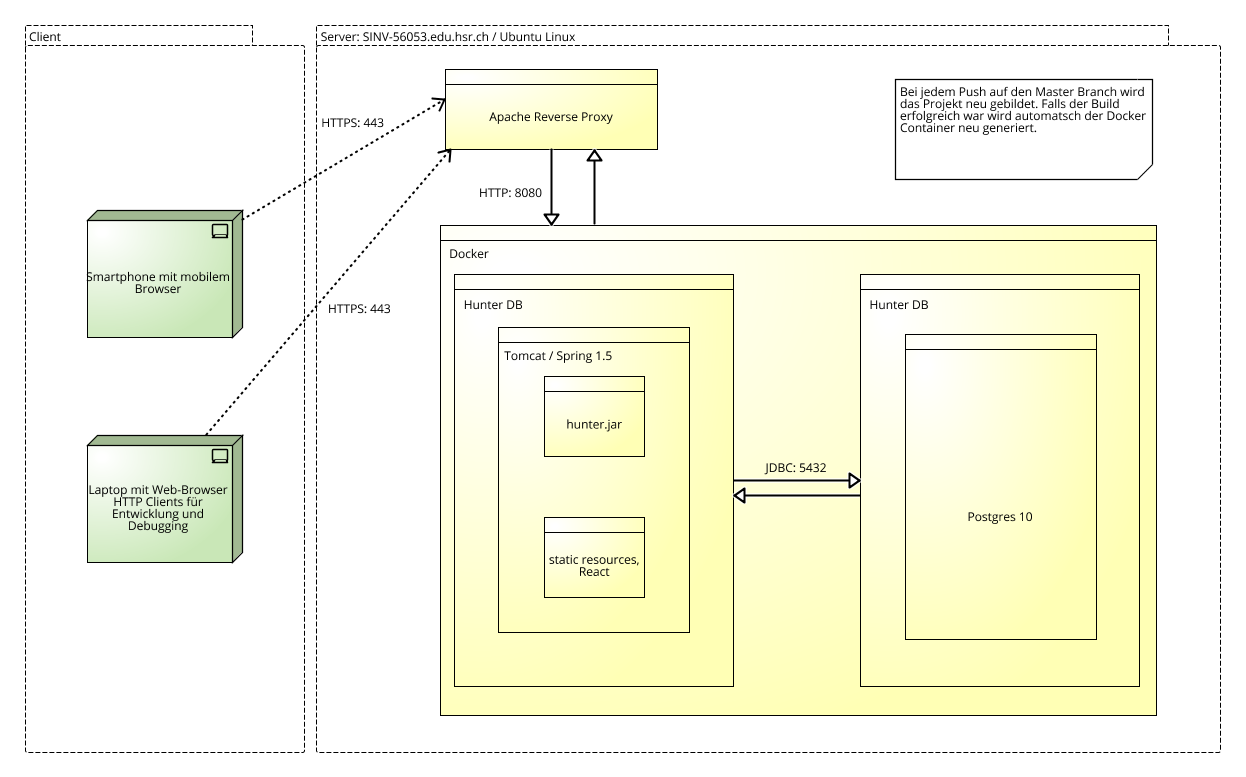
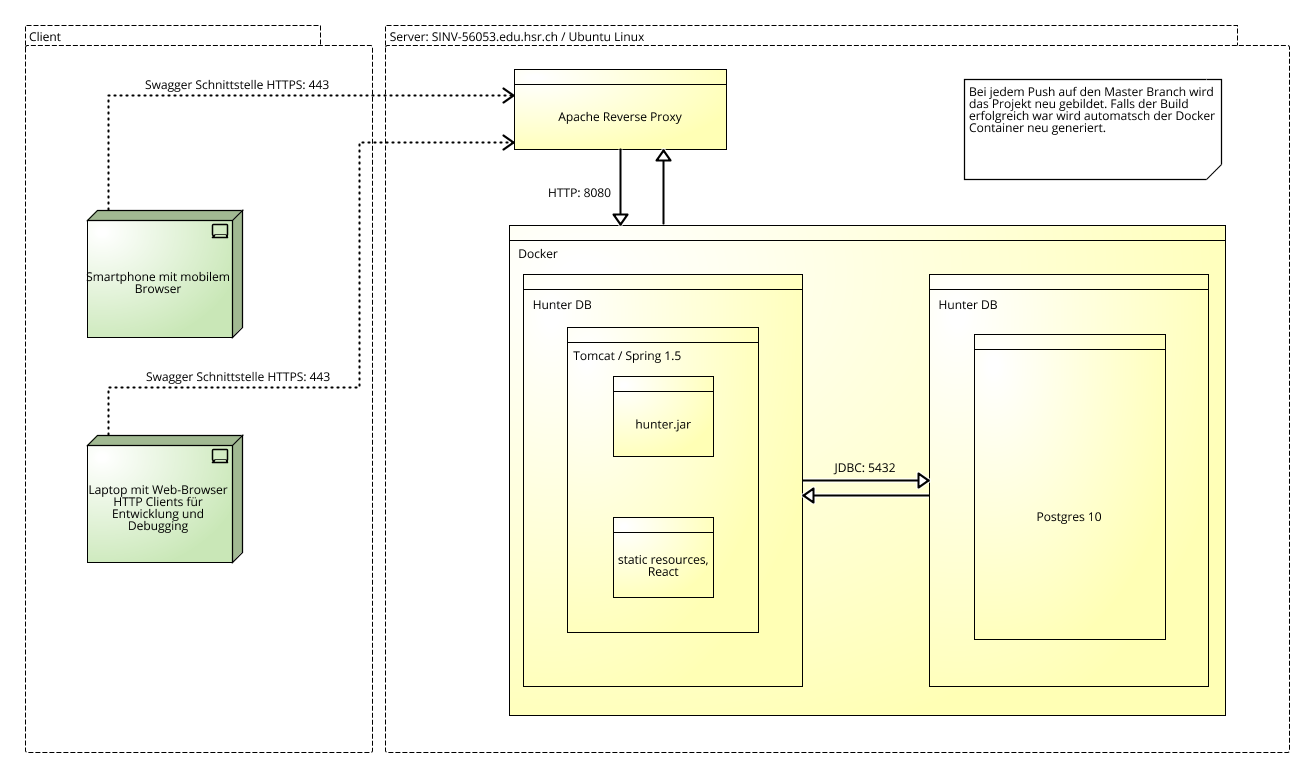
Add revised deployment diagram including api

diff --git a/README.md b/README.md
@@ -41,7 +41,8 @@ Any cloud service that supports docker-compose files perfectly supports hosting 
 This is how we host our testing environment of hunter, and can be used as an example of how HUNTeR can be hosted in a productive environment facing the internet. The main detail to be aware of is that our docker configuration is meant to be hosted behind a reverse proxy. The configuration doesn't support HTTPS, and we rely on a properly configured reverse proxy to supply security. Configuration within the compose network is unsecured and not meant to face the internet.
 
 We use a Jenkins [Pipeline](https://jenkins.io/doc/book/pipeline/) build defined in the [Jenkinsfile](https://github.com/SBI-/epj-prototype/blob/master/Jenkinsfile). Every push to master triggers a build, unit and integration test cycle. Every successful build is continuously deployed as a completely clean test environment, supplied with test data. This is the deployment we use for integration testing.
-![Deployment Diagram]()
+
+![Deployment Diagram](https://github.com/SBI-/epj-prototype/raw/master/documentation/deployment_diagram.png)
 
 ### Example Apache Configuration
 
